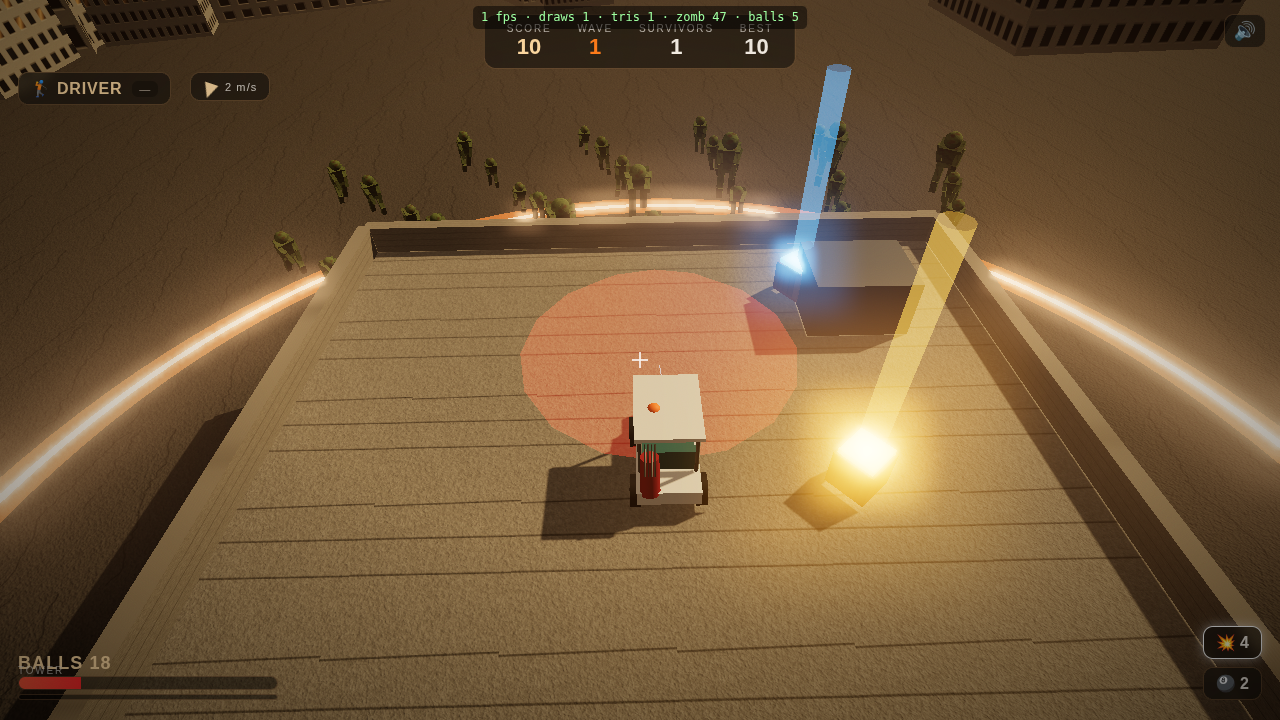
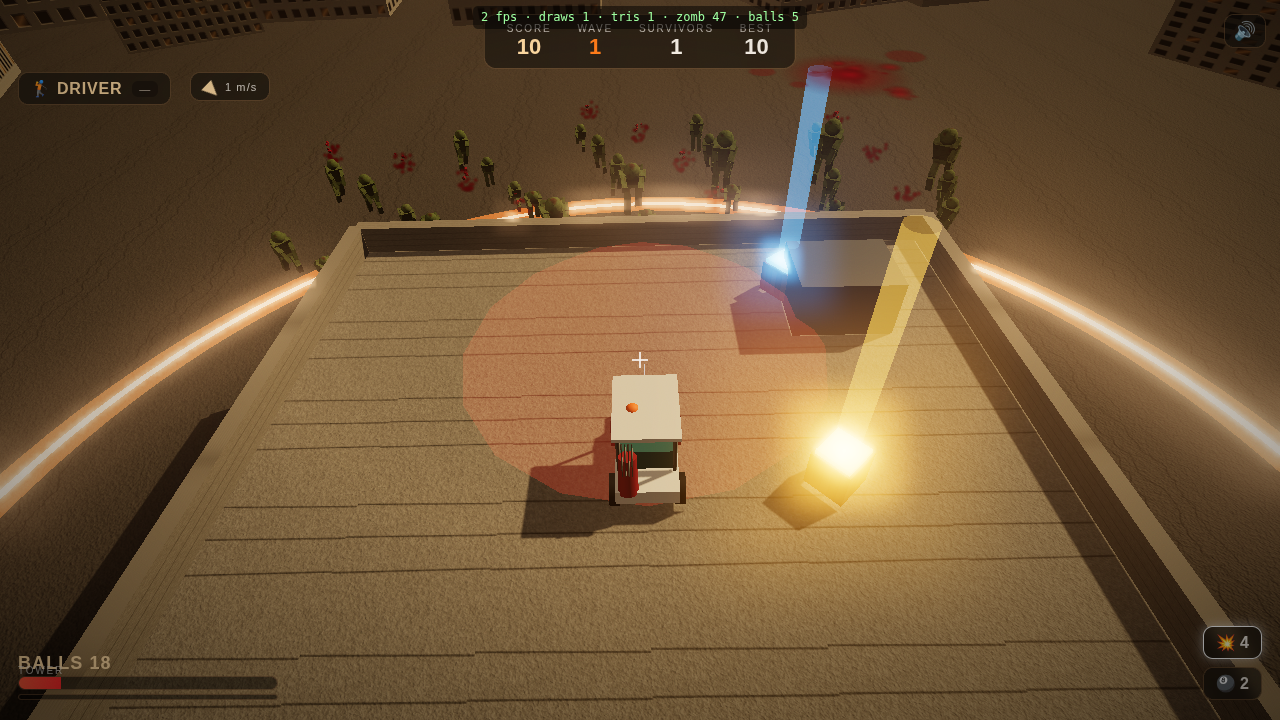
Slice 3: gore — blood particles, persistent ground decals, gore chunks
New gore.js: dark normal-blended blood bursts (1 Points draw), a persistent
1024 blood-decal canvas on one ground plane that fades to equilibrium (1 draw),
and flying meat chunks (1 InstancedMesh) — 3 constant draw calls, zero per-frame
alloc. Wired into zombies.kill/_damage, golf.explode, and ground-ball splats.
Verified: blood ink accumulates and pools visibly on the street, draws 79, zero errors.

Claude-Session: https://claude.ai/code/session_01Mg4jfxrjoLk6LwHjJKuzM6

diff --git a/public/js/gore.js b/public/js/gore.js
@@ -1,0 +1,205 @@
+// =============================================================
+// Gore — the visceral layer that complements Effects (which is purely
+// additive sparks). Dark blood particle bursts (1 Points draw), a persistent
+// ground blood-decal canvas (1 plane draw, fades to equilibrium), and flying
+// gore chunks (1 InstancedMesh). 3 draw calls, constant. Zero per-frame alloc.
+// =============================================================
+import * as THREE from 'three';
+import { CONFIG } from './config.js';
+import { TAU } from './utils.js';
+
+const G = CONFIG.gore;
+
+function bloodSprite() {
+  const c = document.createElement('canvas'); c.width = c.height = 64;
+  const x = c.getContext('2d');
+  const g = x.createRadialGradient(32, 32, 0, 32, 32, 32);
+  g.addColorStop(0, 'rgba(120,12,12,1)');
+  g.addColorStop(0.5, 'rgba(90,6,6,0.55)');
+  g.addColorStop(1, 'rgba(70,0,0,0)');
+  x.fillStyle = g; x.fillRect(0, 0, 64, 64);
+  return new THREE.CanvasTexture(c);
+}
+
+export class Gore {
+  constructor(scene, ctx) {
+    this.ctx = ctx;
+
+    // ---- blood particles (normal-blended, dark) ----
+    this.cap = G.particleCap;
+    this.pos = new Float32Array(this.cap * 3);
+    this.vel = new Float32Array(this.cap * 3);
+    this.life = new Float32Array(this.cap);
+    this.maxLife = new Float32Array(this.cap);
+    this.cursor = 0;
+    for (let i = 0; i < this.cap; i++) this.pos[i * 3 + 1] = -9999;
+    const geo = new THREE.BufferGeometry();
+    geo.setAttribute('position', new THREE.BufferAttribute(this.pos, 3));
+    const mat = new THREE.PointsMaterial({
+      size: G.particleSize, map: bloodSprite(), color: G.bloodColor,
+      transparent: true, depthWrite: false, depthTest: true, blending: THREE.NormalBlending,
+      sizeAttenuation: true, opacity: 0.95,
+    });
+    this.points = new THREE.Points(geo, mat);
+    this.points.frustumCulled = false;
+    scene.add(this.points);
+
+    // ---- persistent ground decal layer ----
+    this.S = G.decalWorldSize; this.R = G.decalRes; this.half = this.S / 2;
+    this.canvas = document.createElement('canvas'); this.canvas.width = this.canvas.height = this.R;
+    this.dctx = this.canvas.getContext('2d');
+    this.dctx.clearRect(0, 0, this.R, this.R);
+    this.decalTex = new THREE.CanvasTexture(this.canvas);
+    this.decalTex.colorSpace = THREE.SRGBColorSpace;
+    const dmat = new THREE.MeshBasicMaterial({
+      map: this.decalTex, transparent: true, depthWrite: false,
+      polygonOffset: true, polygonOffsetFactor: -2, polygonOffsetUnits: -2, fog: true,
+    });
+    this.decalPlane = new THREE.Mesh(new THREE.PlaneGeometry(this.S, this.S, 1, 1), dmat);
+    this.decalPlane.rotation.x = -Math.PI / 2;
+    this.decalPlane.position.y = G.decalY;
+    this.decalPlane.renderOrder = 2;
+    this.decalPlane.frustumCulled = false;
+    scene.add(this.decalPlane);
+    this._dirty = true; this._ink = 0; this._fadeAcc = 0;
+
+    // ---- flying gore chunks ----
+    const N = G.chunkCap;
+    const cmat = new THREE.MeshStandardMaterial({ color: G.chunkColor, roughness: 0.85, metalness: 0 });
+    this.chunkMesh = new THREE.InstancedMesh(new THREE.IcosahedronGeometry(0.32, 0), cmat, N);
+    this.chunkMesh.frustumCulled = false; this.chunkMesh.castShadow = false;
+    this.chunkMesh.instanceMatrix.setUsage(THREE.DynamicDrawUsage);
+    scene.add(this.chunkMesh);
+    this.chunks = [];
+    for (let i = 0; i < N; i++) this.chunks.push({ active: false, x: 0, y: 0, z: 0, vx: 0, vy: 0, vz: 0, rx: 0, ry: 0, rz: 0, ax: 0, ay: 0, az: 0, scale: 0.5, life: 0, splatted: false });
+    this.chunkCursor = 0;
+
+    // scratch
+    this._cm = new THREE.Matrix4(); this._cq = new THREE.Quaternion(); this._ce = new THREE.Euler();
+    this._cv = new THREE.Vector3(); this._cs = new THREE.Vector3(); this._hidden = new THREE.Matrix4().makeScale(0, 0, 0);
+    for (let i = 0; i < N; i++) this.chunkMesh.setMatrixAt(i, this._hidden);
+    this.chunkMesh.instanceMatrix.needsUpdate = true;
+  }
+
+  // ---- emission ----
+  burst(pos, amount = 1, dx = 0, dz = 0) {
+    amount = Math.min(4, amount);
+    const n = Math.round(G.burstBase * amount);
+    const hasDir = (dx || dz);
+    let ndx = dx, ndz = dz;
+    if (hasDir) { const m = Math.hypot(dx, dz) || 1; ndx = dx / m; ndz = dz / m; }
+    const speed = G.burstSpeed * (0.6 + amount * 0.2);
+    for (let k = 0; k < n; k++) {
+      const i = this.cursor; this.cursor = (this.cursor + 1) % this.cap;
+      this.pos[i * 3] = pos.x; this.pos[i * 3 + 1] = pos.y; this.pos[i * 3 + 2] = pos.z;
+      const theta = Math.random() * TAU, phi = Math.acos(2 * Math.random() - 1);
+      let bx = Math.sin(phi) * Math.cos(theta), by = Math.cos(phi), bz = Math.sin(phi) * Math.sin(theta);
+      if (hasDir) { bx = bx * 0.4 + ndx * 0.6; bz = bz * 0.4 + ndz * 0.6; by = by * 0.5 + 0.4; }
+      const sp = speed * (0.4 + Math.random() * 0.6);
+      this.vel[i * 3] = bx * sp; this.vel[i * 3 + 1] = by * sp * 0.6 + 3; this.vel[i * 3 + 2] = bz * sp;
+      this.life[i] = this.maxLife[i] = 0.5 * (0.7 + Math.random() * 0.5);
+    }
+    this.splatXZ(pos.x, pos.z, 0.4 * amount);
+  }
+
+  splat(pos, size = 1) { this.splatXZ(pos.x, pos.z, size); }
+  dropSplat(pos) { if (Math.random() < 0.4) this.splatXZ(pos.x, pos.z, 0.3); }
+
+  splatXZ(wx, wz, size) {
+    if (wx < -this.half || wx > this.half || wz < -this.half || wz > this.half) return;
+    const u = (wx + this.half) / this.S, v = (wz + this.half) / this.S;
+    const px = u * this.R, py = (1 - v) * this.R;
+    const r = G.splatBaseRadiusPx * size * (0.7 + Math.random() * 0.6);
+    const d = this.dctx;
+    const g = d.createRadialGradient(px, py, 0, px, py, r);
+    g.addColorStop(0, 'rgba(122,12,10,0.78)'); g.addColorStop(0.55, 'rgba(96,6,6,0.55)'); g.addColorStop(1, 'rgba(70,0,0,0)');
+    d.fillStyle = g; d.beginPath(); d.arc(px, py, r, 0, TAU); d.fill();
+    const sat = 2 + Math.floor(Math.random() * 3);
+    d.fillStyle = 'rgba(92,5,5,0.5)';
+    for (let k = 0; k < sat; k++) {
+      const a = Math.random() * TAU, dd = r * (0.6 + Math.random() * 0.9), rr = r * (0.12 + Math.random() * 0.22);
+      d.beginPath(); d.arc(px + Math.cos(a) * dd, py + Math.sin(a) * dd, rr, 0, TAU); d.fill();
+    }
+    this._dirty = true; this._ink += size;
+  }
+
+  chunk(pos, vx, vy, vz) {
+    const i = this.chunkCursor; this.chunkCursor = (i + 1) % this.chunks.length;
+    const c = this.chunks[i];
+    c.active = true; c.x = pos.x; c.y = pos.y; c.z = pos.z;
+    c.vx = vx + (Math.random() - 0.5) * 4; c.vy = vy + 2 + Math.random() * 3; c.vz = vz + (Math.random() - 0.5) * 4;
+    c.rx = Math.random() * TAU; c.ry = Math.random() * TAU; c.rz = Math.random() * TAU;
+    c.ax = (Math.random() - 0.5) * 12; c.ay = (Math.random() - 0.5) * 12; c.az = (Math.random() - 0.5) * 12;
+    c.scale = G.chunkScale * (0.7 + Math.random() * 0.7); c.life = G.chunkLife * (0.8 + Math.random() * 0.5); c.splatted = false;
+  }
+
+  killGore(pos, dx = 0, dz = 0, severity = 1) {
+    this.burst(pos, severity, dx, dz);
+    this.splat(pos, 0.9 * severity);
+    const n = Math.round(G.chunksPerKill * severity);
+    const m = Math.hypot(dx, dz) || 1; const ndx = (dx / m), ndz = (dz / m);
+    for (let k = 0; k < n; k++) {
+      const sp = G.chunkSpeed * severity * (0.6 + Math.random() * 0.6);
+      this.chunk(pos, (dx ? ndx : (Math.random() - 0.5) * 2) * sp, 4, (dz ? ndz : (Math.random() - 0.5) * 2) * sp);
+    }
+  }
+  dismemberGore(pos, dx = 0, dz = 0) { this.killGore(pos, dx, dz, 1.5); }
+
+  reset() {
+    for (let i = 0; i < this.cap; i++) { this.life[i] = 0; this.pos[i * 3 + 1] = -9999; }
+    this.points.geometry.attributes.position.needsUpdate = true;
+    for (const c of this.chunks) c.active = false;
+    for (let i = 0; i < this.chunks.length; i++) this.chunkMesh.setMatrixAt(i, this._hidden);
+    this.chunkMesh.instanceMatrix.needsUpdate = true;
+    this.dctx.clearRect(0, 0, this.R, this.R); this._ink = 0; this._fadeAcc = 0; this._dirty = true;
+  }
+
+  update(dt) {
+    const g = CONFIG.gravity;
+    // particles
+    for (let i = 0; i < this.cap; i++) {
+      if (this.life[i] <= 0) continue;
+      this.life[i] -= dt;
+      if (this.life[i] <= 0) { this.pos[i * 3 + 1] = -9999; continue; }
+      this.vel[i * 3 + 1] -= g * dt;
+      this.pos[i * 3] += this.vel[i * 3] * dt; this.pos[i * 3 + 1] += this.vel[i * 3 + 1] * dt; this.pos[i * 3 + 2] += this.vel[i * 3 + 2] * dt;
+      if (this.pos[i * 3 + 1] < G.groundY) {
+        this.pos[i * 3 + 1] = G.groundY; this.vel[i * 3 + 1] *= -0.18; this.vel[i * 3] *= 0.55; this.vel[i * 3 + 2] *= 0.55;
+        if (this.life[i] > 0.04 && Math.random() < G.dropSplatChance) this.splatXZ(this.pos[i * 3], this.pos[i * 3 + 2], 0.35);
+      }
+    }
+    this.points.geometry.attributes.position.needsUpdate = true;
+
+    // chunks
+    let cdirty = false;
+    for (let i = 0; i < this.chunks.length; i++) {
+      const c = this.chunks[i]; if (!c.active) continue;
+      cdirty = true; c.life -= dt;
+      if (c.life <= 0) { c.active = false; this.chunkMesh.setMatrixAt(i, this._hidden); continue; }
+      c.vy -= g * dt; c.x += c.vx * dt; c.y += c.vy * dt; c.z += c.vz * dt;
+      if (c.y < G.chunkGroundY) {
+        c.y = G.chunkGroundY; c.vy *= -0.25; c.vx *= 0.6; c.vz *= 0.6; c.ax *= 0.5; c.ay *= 0.5; c.az *= 0.5;
+        if (!c.splatted) { c.splatted = true; this.splatXZ(c.x, c.z, 0.5); }
+      }
+      c.rx += c.ax * dt; c.ry += c.ay * dt; c.rz += c.az * dt;
+      this._ce.set(c.rx, c.ry, c.rz); this._cq.setFromEuler(this._ce);
+      this._cm.compose(this._cv.set(c.x, c.y, c.z), this._cq, this._cs.set(c.scale, c.scale, c.scale));
+      this.chunkMesh.setMatrixAt(i, this._cm);
+    }
+    if (cdirty) this.chunkMesh.instanceMatrix.needsUpdate = true;
+
+    // decal fade toward equilibrium
+    if (this._ink > G.inkFadeThreshold) {
+      this._fadeAcc += dt;
+      if (this._fadeAcc >= G.fadeInterval) {
+        this._fadeAcc = 0;
+        this.dctx.globalCompositeOperation = 'destination-out';
+        this.dctx.fillStyle = `rgba(0,0,0,${G.fadeAlpha})`;
+        this.dctx.fillRect(0, 0, this.R, this.R);
+        this.dctx.globalCompositeOperation = 'source-over';
+        this._ink *= (1 - G.fadeAlpha * 2); this._dirty = true;
+      }
+    }
+    if (this._dirty) { this.decalTex.needsUpdate = true; this._dirty = false; }
+  }
+}

diff --git a/public/js/main.js b/public/js/main.js
@@ -18,6 +18,7 @@ import { Golf } from './golf.js';
 import { Input } from './input.js';
 import { HUD } from './hud.js';
 import { PostFX, Shake } from './postfx.js';
+import { Gore } from './gore.js';
 
 const canvas = document.getElementById('c');
 const renderer = new THREE.WebGLRenderer({ canvas, antialias: true, powerPreference: 'high-performance' });
@@ -39,6 +40,7 @@ const world = buildWorld(scene, assets, renderer);
 const ctx = { assets, scene, world };
 ctx.audio = new AudioKit();
 ctx.effects = new Effects(scene);
+ctx.gore = new Gore(scene, ctx);
 ctx.shake = new Shake();
 ctx.postfx = new PostFX(renderer, scene, camera);
 ctx.player = new Player(scene, ctx);

diff --git a/public/js/config.js b/public/js/config.js
@@ -178,7 +178,7 @@ export const CONFIG = {
   gore: {
     particleCap: 360, particleSize: 1.1, bloodColor: 0x7a0a0a, groundY: 0.06, dropSplatChance: 0.04,
     burstBase: 9, burstSpeed: 16, decalRes: 1024, decalWorldSize: 220, decalY: 0.05,
-    splatBaseRadiusPx: 18, inkFadeThreshold: 60, fadeInterval: 0.8, fadeAlpha: 0.045,
+    splatBaseRadiusPx: 23, inkFadeThreshold: 70, fadeInterval: 0.8, fadeAlpha: 0.04,
     chunkCap: 48, chunkScale: 0.5, chunkSpeed: 7, chunkLife: 2.2, chunkGroundY: 0.32,
     chunkColor: 0x8c1414, chunksPerKill: 2,
   },
